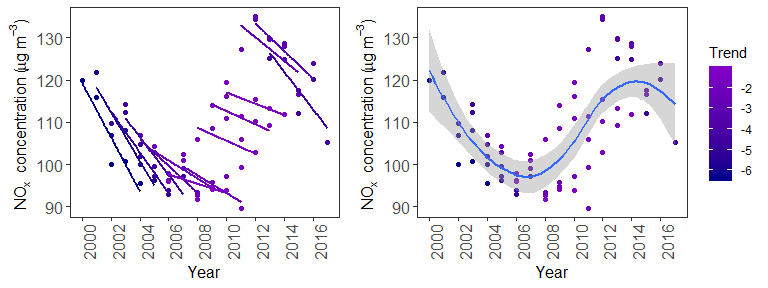
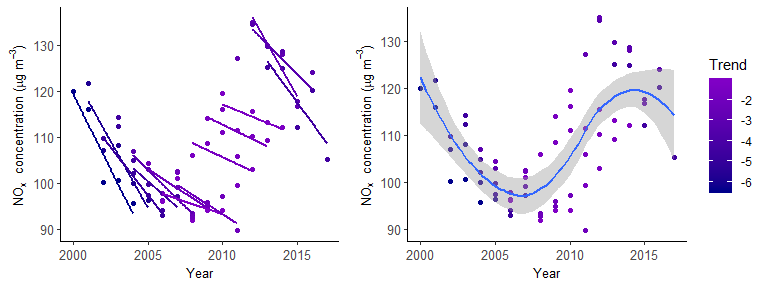
update README to reflect function changes

diff --git a/README.md b/README.md
@@ -49,8 +49,7 @@ The differences between the average trend (left) and the long term trend (right)
 
 ``` r
 nox.av.trends <- average_trends(data, pollutant = "nox", stat = "median", 
-                                start.date = "2000-01-01", end.date = "2017-12-31", data.capture = 90,
-                                smooth.method = "loess")
+                                start.date = "2000-01-01", end.date = "2017-12-31", data.capture = 90)
 
 cowplot::plot_grid(nox.av.trends$average.trend, nox.av.trends$longterm.trend, ncol = 2)
 ```
@@ -60,7 +59,7 @@ cowplot::plot_grid(nox.av.trends$average.trend, nox.av.trends$longterm.trend, nc
 The presence of a biasing effect can be confirmed by plotting the differences in concentration between opening sites and closing sites as a function of year using the `site_flux_bias` function (see below). In this case, it is clear that opening sites have a consistently higher average NO<sub>x</sub> concentration than closing sites. Taking into account the relative frequency of opening and closing sites (as shown in the plot of the weighted cumulative sum of differences in concentration as a function of time on the far right), a bias towards more polluted locations is evident.
 
 ``` r
-site_flux_bias(data, pollutant = "nox", stat = "median", smooth.method = "loess")$all
+site_flux_bias(data, pollutant = "nox", stat = "median")$all
 ```
 
 <img src="fig/README-difference-1.png" style="display: block; margin: auto;" />
@@ -106,7 +105,7 @@ rolling_trends(data, pollutant = "nox", window.width = c(2, 5, 7, 10, 12, 15))
 Having identified the effect of bias on the average trend, the `rolling_change_trend` function can be used to extract the true trend from the data, as shown below.
 
 ``` r
-rolling_change_trend(data, "nox", window.width = 2, parallel = TRUE)
+rolling_change_trend(data, "nox", window.width = 3, avg.ts = "year", parallel = TRUE)
 ```
 
 <img src="fig/README-change_trends-1.png" style="display: block; margin: auto;" />
